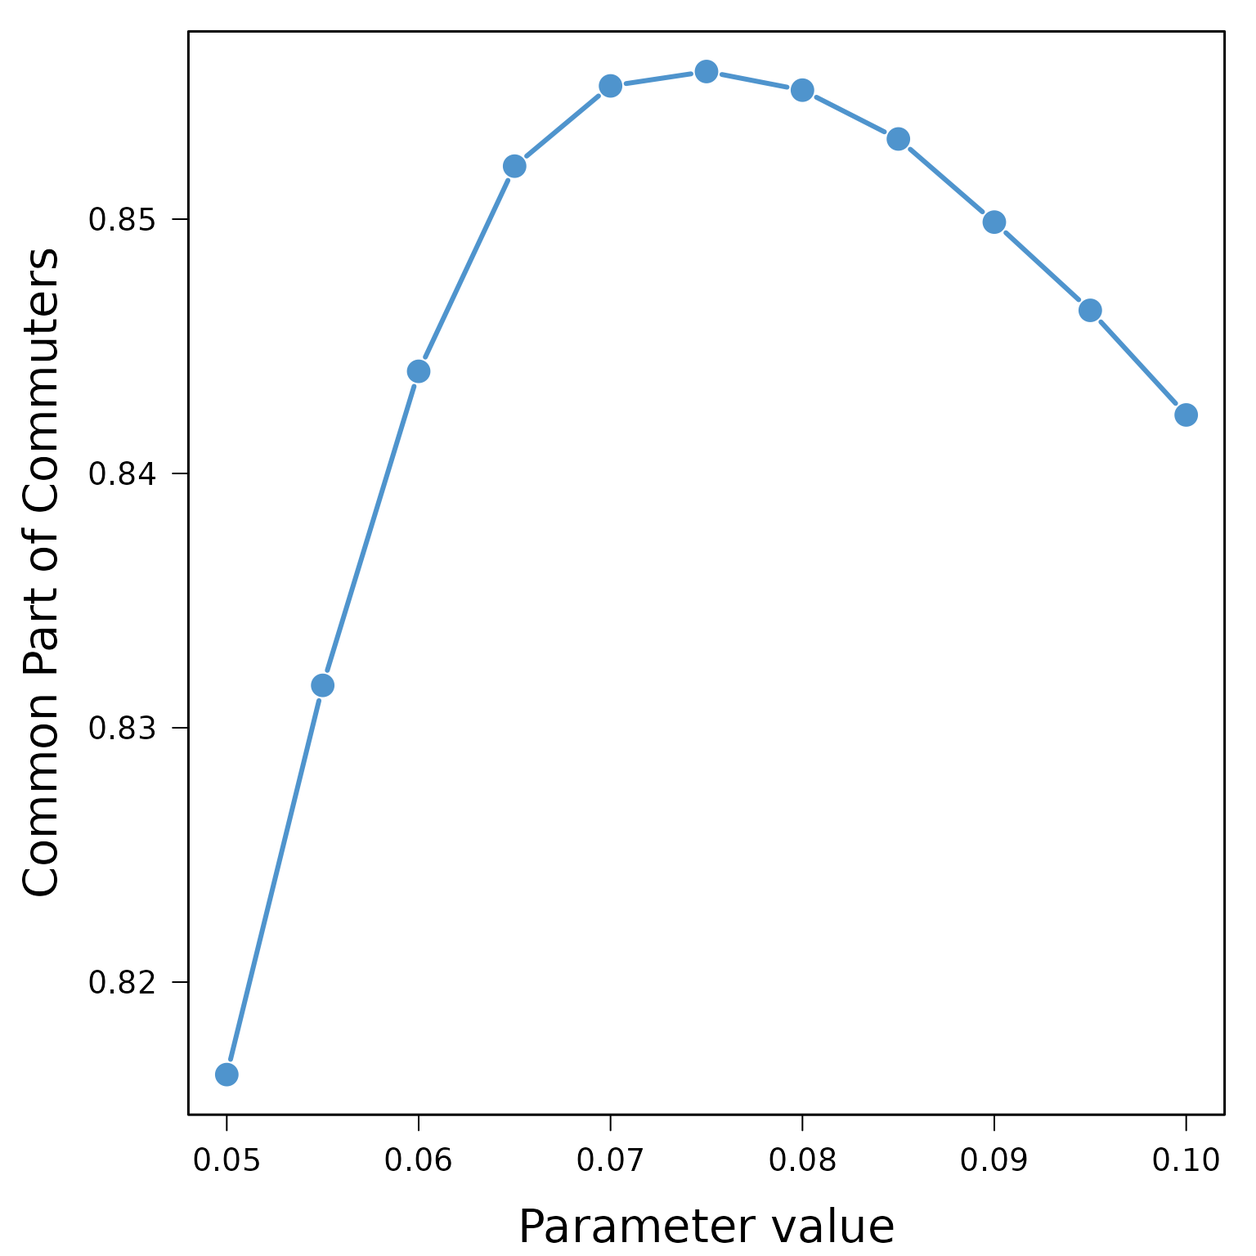
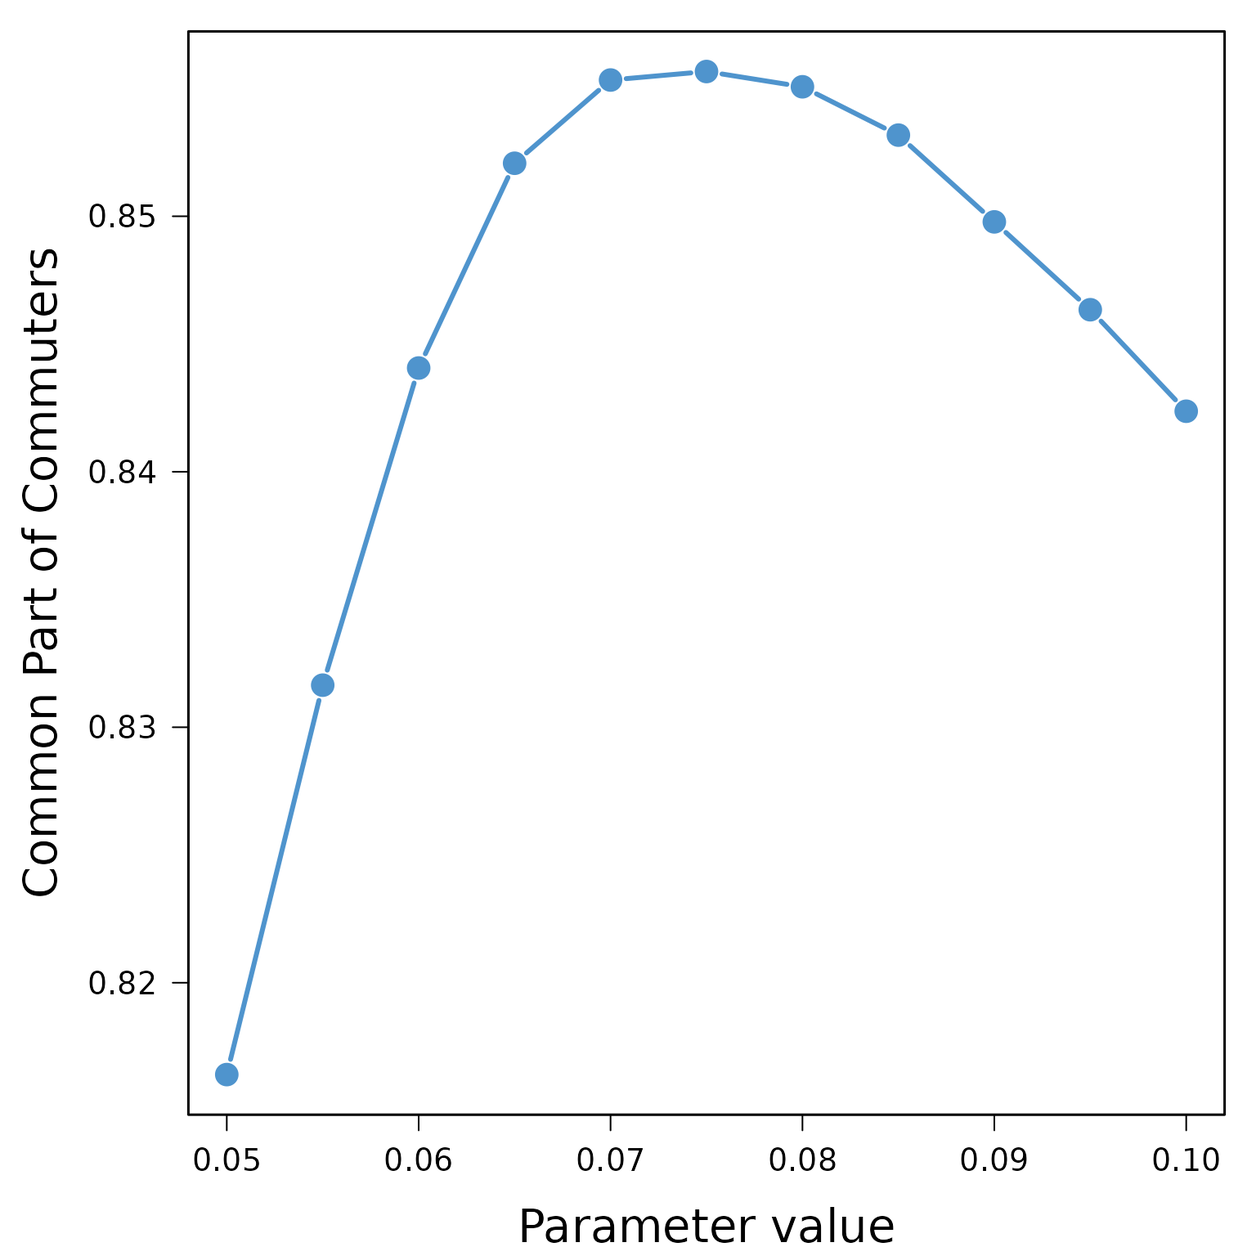
Built site for TDLM: 0.1.0@2da2231

diff --git a/articles/TDLM.html b/articles/TDLM.html
@@ -506,11 +506,11 @@ contain a table <code>info</code> summarizing the simulation run.</p>
 <span><span class="co">##  $ info         :'data.frame':   5 obs. of  2 variables:</span></span>
 <span><span class="co">##   ..$ Argument: chr [1:5] "Law" "Model" "#Replications" "#Parameters" ...</span></span>
 <span><span class="co">##   ..$ Value   : chr [1:5] "NGravExp" "DCM" "3" "1" ...</span></span>
-<span><span class="co">##  $ replication_1: num [1:105, 1:105] 0 23 4 0 2 16 4 103 6 6 ...</span></span>
+<span><span class="co">##  $ replication_1: num [1:105, 1:105] 0 23 4 0 2 15 4 103 5 6 ...</span></span>
 <span><span class="co">##   ..- attr(*, "dimnames")=List of 2</span></span>
-<span><span class="co">##  $ replication_2: num [1:105, 1:105] 0 23 5 0 2 15 4 103 5 6 ...</span></span>
+<span><span class="co">##  $ replication_2: num [1:105, 1:105] 0 23 4 1 2 15 4 105 5 6 ...</span></span>
 <span><span class="co">##   ..- attr(*, "dimnames")=List of 2</span></span>
-<span><span class="co">##  $ replication_3: num [1:105, 1:105] 0 24 4 0 2 17 4 105 5 6 ...</span></span>
+<span><span class="co">##  $ replication_3: num [1:105, 1:105] 0 23 4 0 2 15 4 104 5 7 ...</span></span>
 <span><span class="co">##   ..- attr(*, "dimnames")=List of 2</span></span>
 <span><span class="co">##  $ proba        : num [1:105, 1:105] 0 0.0000431 0.0000216 0.0000039 0.0000181 ...</span></span>
 <span><span class="co">##   ..- attr(*, "dimnames")=List of 2</span></span>
@@ -553,20 +553,20 @@ each parameter value).</p>
 <span><span class="co">##   ..$ Argument: chr [1:6] "Law" "Model" "#Replications" "#Parameters" ...</span></span>
 <span><span class="co">##   ..$ Value   : chr [1:6] "NGravExp" "DCM" "3" "2" ...</span></span>
 <span><span class="co">##  $ parameter_1:List of 4</span></span>
-<span><span class="co">##   ..$ replication_1: num [1:105, 1:105] 0 23 4 1 2 15 4 101 5 7 ...</span></span>
+<span><span class="co">##   ..$ replication_1: num [1:105, 1:105] 0 23 4 0 2 15 4 104 5 8 ...</span></span>
 <span><span class="co">##   .. ..- attr(*, "dimnames")=List of 2</span></span>
-<span><span class="co">##   ..$ replication_2: num [1:105, 1:105] 0 23 4 0 2 15 4 101 5 6 ...</span></span>
+<span><span class="co">##   ..$ replication_2: num [1:105, 1:105] 0 23 4 0 2 15 4 102 5 6 ...</span></span>
 <span><span class="co">##   .. ..- attr(*, "dimnames")=List of 2</span></span>
-<span><span class="co">##   ..$ replication_3: num [1:105, 1:105] 0 24 4 0 2 15 4 103 5 6 ...</span></span>
+<span><span class="co">##   ..$ replication_3: num [1:105, 1:105] 0 23 4 0 2 16 4 105 5 6 ...</span></span>
 <span><span class="co">##   .. ..- attr(*, "dimnames")=List of 2</span></span>
 <span><span class="co">##   ..$ proba        : num [1:105, 1:105] 0 0.0000431 0.0000216 0.0000039 0.0000181 ...</span></span>
 <span><span class="co">##   .. ..- attr(*, "dimnames")=List of 2</span></span>
 <span><span class="co">##  $ parameter_2:List of 4</span></span>
-<span><span class="co">##   ..$ replication_1: num [1:105, 1:105] 0 55 2 0 0 39 1 76 5 7 ...</span></span>
+<span><span class="co">##   ..$ replication_1: num [1:105, 1:105] 0 54 2 0 0 39 1 78 5 7 ...</span></span>
 <span><span class="co">##   .. ..- attr(*, "dimnames")=List of 2</span></span>
-<span><span class="co">##   ..$ replication_2: num [1:105, 1:105] 0 54 2 0 0 39 1 76 5 7 ...</span></span>
+<span><span class="co">##   ..$ replication_2: num [1:105, 1:105] 0 53 2 0 0 39 1 77 5 8 ...</span></span>
 <span><span class="co">##   .. ..- attr(*, "dimnames")=List of 2</span></span>
-<span><span class="co">##   ..$ replication_3: num [1:105, 1:105] 0 54 2 0 0 39 1 80 5 7 ...</span></span>
+<span><span class="co">##   ..$ replication_3: num [1:105, 1:105] 0 53 2 0 0 39 1 76 5 7 ...</span></span>
 <span><span class="co">##   .. ..- attr(*, "dimnames")=List of 2</span></span>
 <span><span class="co">##   ..$ proba        : num [1:105, 1:105] 0 0.00008134 0.00000817 0.00000071 0.00000316 ...</span></span>
 <span><span class="co">##   .. ..- attr(*, "dimnames")=List of 2</span></span>
@@ -604,15 +604,15 @@ case) will be a matrix of positive real numbers.</p>
 <div class="sourceCode" id="cb37"><pre class="downlit sourceCode r">
 <code class="sourceCode R"><span><span class="va">res</span><span class="op">$</span><span class="va">replication_1</span><span class="op">[</span><span class="fl">1</span><span class="op">:</span><span class="fl">10</span>,<span class="fl">1</span><span class="op">:</span><span class="fl">10</span><span class="op">]</span></span></code></pre></div>
 <pre><code><span><span class="co">##       [,1] [,2] [,3] [,4] [,5] [,6] [,7] [,8] [,9] [,10]</span></span>
-<span><span class="co">##  [1,]    0   32    0    0    0  120    0    1    0     0</span></span>
-<span><span class="co">##  [2,]  567    0    0    0    0   22    0    0    0     0</span></span>
+<span><span class="co">##  [1,]    0   32    0    0    0  122    0    1    0     0</span></span>
+<span><span class="co">##  [2,]  571    0    0    0    0   22    0    0    0     0</span></span>
 <span><span class="co">##  [3,]    0    0    0    0    0    0  199    0    0     0</span></span>
 <span><span class="co">##  [4,]    0    0    0    0    0    0    0    0    0     0</span></span>
 <span><span class="co">##  [5,]    0    0    0    1    0    0    0    3    0     0</span></span>
 <span><span class="co">##  [6,]   17    2    0    0    0    0    0    0    0     0</span></span>
-<span><span class="co">##  [7,]    0    0  204    0    0    0    0    0    0     0</span></span>
+<span><span class="co">##  [7,]    0    0  201    0    0    0    0    0    0     0</span></span>
 <span><span class="co">##  [8,]    4    1    1    1   10    5    1    0    0     1</span></span>
-<span><span class="co">##  [9,]    0    0    0    0    0    0    0   40    0     0</span></span>
+<span><span class="co">##  [9,]    0    0    0    0    0    0    0   39    0     0</span></span>
 <span><span class="co">## [10,]    0    0    0    0    0    0    0   13    0     0</span></span></code></pre>
 <div class="sourceCode" id="cb39"><pre class="downlit sourceCode r">
 <code class="sourceCode R"><span><span class="va">res</span> <span class="op">&lt;-</span> <span class="fu"><a href="../reference/run_law_model.html">run_law_model</a></span><span class="op">(</span>law <span class="op">=</span> <span class="st">"Rad"</span>, </span>
@@ -715,73 +715,73 @@ goodness-of-fit measure for a wide range of parameter values.</p>
 <span></span>
 <span><span class="fu"><a href="https://rdrr.io/r/base/print.html" class="external-link">print</a></span><span class="op">(</span><span class="va">calib</span><span class="op">)</span></span></code></pre></div>
 <pre><code><span><span class="co">##       Parameter Parameter_value    Simulation       CPC     NRMSE         KL</span></span>
-<span><span class="co">## 1   parameter_1            0.05 replication_1 0.8162987 10.529619 0.12948493</span></span>
-<span><span class="co">## 2   parameter_1            0.05 replication_2 0.8162887 10.529362 0.12960640</span></span>
-<span><span class="co">## 3   parameter_1            0.05 replication_3 0.8165034 10.517058 0.12942057</span></span>
-<span><span class="co">## 4   parameter_2           0.055 replication_1 0.8316870  9.410129 0.11319133</span></span>
-<span><span class="co">## 5   parameter_2           0.055 replication_2 0.8316920  9.403432 0.11323512</span></span>
-<span><span class="co">## 6   parameter_2           0.055 replication_3 0.8316221  9.417306 0.11339428</span></span>
-<span><span class="co">## 7   parameter_3            0.06 replication_1 0.8440256  8.644802 0.09858013</span></span>
-<span><span class="co">## 8   parameter_3            0.06 replication_2 0.8440206  8.638531 0.09803160</span></span>
-<span><span class="co">## 9   parameter_3            0.06 replication_3 0.8440007  8.642577 0.09829001</span></span>
-<span><span class="co">## 10  parameter_4           0.065 replication_1 0.8520717  8.176929 0.08794192</span></span>
-<span><span class="co">## 11  parameter_4           0.065 replication_2 0.8521266  8.169177 0.08789399</span></span>
-<span><span class="co">## 12  parameter_4           0.065 replication_3 0.8520517  8.171571 0.08792502</span></span>
-<span><span class="co">## 13  parameter_5            0.07 replication_1 0.8552661  7.965454 0.08007311</span></span>
-<span><span class="co">## 14  parameter_5            0.07 replication_2 0.8552362  7.961158 0.08021417</span></span>
-<span><span class="co">## 15  parameter_5            0.07 replication_3 0.8552112  7.972721 0.08025322</span></span>
-<span><span class="co">## 16  parameter_6           0.075 replication_1 0.8557902  7.944715 0.07908148</span></span>
-<span><span class="co">## 17  parameter_6           0.075 replication_2 0.8557203  7.941551 0.07922259</span></span>
-<span><span class="co">## 18  parameter_6           0.075 replication_3 0.8559000  7.943241 0.07909025</span></span>
-<span><span class="co">## 19  parameter_7            0.08 replication_1 0.8550814  8.113698 0.07459387</span></span>
-<span><span class="co">## 20  parameter_7            0.08 replication_2 0.8551513  8.108600 0.07900007</span></span>
-<span><span class="co">## 21  parameter_7            0.08 replication_3 0.8549816  8.120249 0.07445038</span></span>
-<span><span class="co">## 22  parameter_8           0.085 replication_1 0.8531797  8.371970 0.07373883</span></span>
-<span><span class="co">## 23  parameter_8           0.085 replication_2 0.8530799  8.380571 0.07372626</span></span>
-<span><span class="co">## 24  parameter_8           0.085 replication_3 0.8531947  8.378287 0.07371815</span></span>
-<span><span class="co">## 25  parameter_9            0.09 replication_1 0.8499453  8.710399 0.07525838</span></span>
-<span><span class="co">## 26  parameter_9            0.09 replication_2 0.8499054  8.701195 0.07533784</span></span>
-<span><span class="co">## 27  parameter_9            0.09 replication_3 0.8497956  8.713282 0.07521575</span></span>
-<span><span class="co">## 28 parameter_10           0.095 replication_1 0.8464165  9.092052 0.08101716</span></span>
-<span><span class="co">## 29 parameter_10           0.095 replication_2 0.8464115  9.083562 0.08091549</span></span>
-<span><span class="co">## 30 parameter_10           0.095 replication_3 0.8464115  9.081993 0.08081967</span></span>
-<span><span class="co">## 31 parameter_11             0.1 replication_1 0.8422936  9.489928 0.08337382</span></span>
-<span><span class="co">## 32 parameter_11             0.1 replication_2 0.8423485  9.494399 0.08350422</span></span>
-<span><span class="co">## 33 parameter_11             0.1 replication_3 0.8422587  9.494559 0.08337782</span></span>
+<span><span class="co">## 1   parameter_1            0.05 replication_1 0.8164135 10.524151 0.12949910</span></span>
+<span><span class="co">## 2   parameter_1            0.05 replication_2 0.8164185 10.527185 0.12966565</span></span>
+<span><span class="co">## 3   parameter_1            0.05 replication_3 0.8163836 10.516966 0.12947455</span></span>
+<span><span class="co">## 4   parameter_2           0.055 replication_1 0.8315273  9.425764 0.11336950</span></span>
+<span><span class="co">## 5   parameter_2           0.055 replication_2 0.8316621  9.420002 0.11334950</span></span>
+<span><span class="co">## 6   parameter_2           0.055 replication_3 0.8317519  9.399743 0.11315027</span></span>
+<span><span class="co">## 7   parameter_3            0.06 replication_1 0.8441604  8.638863 0.09793344</span></span>
+<span><span class="co">## 8   parameter_3            0.06 replication_2 0.8440456  8.643352 0.09822924</span></span>
+<span><span class="co">## 9   parameter_3            0.06 replication_3 0.8439757  8.643521 0.09826929</span></span>
+<span><span class="co">## 10  parameter_4           0.065 replication_1 0.8521216  8.171056 0.08794039</span></span>
+<span><span class="co">## 11  parameter_4           0.065 replication_2 0.8520217  8.171384 0.08768137</span></span>
+<span><span class="co">## 12  parameter_4           0.065 replication_3 0.8520816  8.167739 0.08788543</span></span>
+<span><span class="co">## 13  parameter_5            0.07 replication_1 0.8552661  7.961458 0.08017959</span></span>
+<span><span class="co">## 14  parameter_5            0.07 replication_2 0.8553260  7.948951 0.08017596</span></span>
+<span><span class="co">## 15  parameter_5            0.07 replication_3 0.8554059  7.956282 0.08021037</span></span>
+<span><span class="co">## 16  parameter_6           0.075 replication_1 0.8557802  7.948029 0.07934174</span></span>
+<span><span class="co">## 17  parameter_6           0.075 replication_2 0.8557403  7.947921 0.07919678</span></span>
+<span><span class="co">## 18  parameter_6           0.075 replication_3 0.8554757  7.977773 0.07925845</span></span>
+<span><span class="co">## 19  parameter_7            0.08 replication_1 0.8550615  8.104646 0.07424040</span></span>
+<span><span class="co">## 20  parameter_7            0.08 replication_2 0.8550215  8.122180 0.07428158</span></span>
+<span><span class="co">## 21  parameter_7            0.08 replication_3 0.8551214  8.107315 0.07426391</span></span>
+<span><span class="co">## 22  parameter_8           0.085 replication_1 0.8532296  8.372686 0.07359353</span></span>
+<span><span class="co">## 23  parameter_8           0.085 replication_2 0.8531797  8.381286 0.07369446</span></span>
+<span><span class="co">## 24  parameter_8           0.085 replication_3 0.8531198  8.376033 0.07439135</span></span>
+<span><span class="co">## 25  parameter_9            0.09 replication_1 0.8498056  8.707191 0.07540731</span></span>
+<span><span class="co">## 26  parameter_9            0.09 replication_2 0.8498106  8.721232 0.07521628</span></span>
+<span><span class="co">## 27  parameter_9            0.09 replication_3 0.8497257  8.726455 0.07549420</span></span>
+<span><span class="co">## 28 parameter_10           0.095 replication_1 0.8463765  9.090399 0.08091831</span></span>
+<span><span class="co">## 29 parameter_10           0.095 replication_2 0.8463616  9.099636 0.08091574</span></span>
+<span><span class="co">## 30 parameter_10           0.095 replication_3 0.8462867  9.083646 0.08095228</span></span>
+<span><span class="co">## 31 parameter_11             0.1 replication_1 0.8423835  9.488589 0.08370720</span></span>
+<span><span class="co">## 32 parameter_11             0.1 replication_2 0.8423485  9.487234 0.08340066</span></span>
+<span><span class="co">## 33 parameter_11             0.1 replication_3 0.8423735  9.492525 0.08338867</span></span>
 <span><span class="co">##          CPL     CPC_d    KS_stat   KS_pval</span></span>
-<span><span class="co">## 1  0.6595850 0.8953566 0.07301159 0.9998558</span></span>
-<span><span class="co">## 2  0.6592593 0.8953516 0.07300161 0.9998559</span></span>
-<span><span class="co">## 3  0.6592593 0.8953965 0.07299662 0.9998564</span></span>
-<span><span class="co">## 4  0.6709979 0.9156963 0.04988671 1.0000000</span></span>
-<span><span class="co">## 5  0.6709979 0.9155665 0.04991666 1.0000000</span></span>
-<span><span class="co">## 6  0.6706494 0.9156314 0.04992165 1.0000000</span></span>
-<span><span class="co">## 7  0.6729730 0.9318283 0.03026076 1.0000000</span></span>
-<span><span class="co">## 8  0.6718877 0.9318033 0.03025078 1.0000000</span></span>
-<span><span class="co">## 9  0.6724278 0.9318433 0.03025577 1.0000000</span></span>
-<span><span class="co">## 10 0.6724866 0.9430239 0.03377467 1.0000000</span></span>
-<span><span class="co">## 11 0.6726761 0.9430388 0.03377966 1.0000000</span></span>
-<span><span class="co">## 12 0.6736131 0.9431087 0.03376967 1.0000000</span></span>
-<span><span class="co">## 13 0.6748395 0.9495525 0.03745827 1.0000000</span></span>
-<span><span class="co">## 14 0.6740654 0.9495076 0.03747325 1.0000000</span></span>
-<span><span class="co">## 15 0.6742623 0.9493429 0.03741834 1.0000000</span></span>
-<span><span class="co">## 16 0.6716867 0.9482148 0.04355769 1.0000000</span></span>
-<span><span class="co">## 17 0.6720916 0.9481999 0.04355270 1.0000000</span></span>
-<span><span class="co">## 18 0.6720867 0.9481500 0.04360261 1.0000000</span></span>
-<span><span class="co">## 19 0.6635688 0.9407927 0.04953233 1.0000000</span></span>
-<span><span class="co">## 20 0.6643963 0.9408376 0.04946245 1.0000000</span></span>
-<span><span class="co">## 21 0.6627439 0.9408826 0.04948241 1.0000000</span></span>
-<span><span class="co">## 22 0.6516067 0.9330512 0.05646530 1.0000000</span></span>
-<span><span class="co">## 23 0.6511776 0.9330062 0.05646031 1.0000000</span></span>
-<span><span class="co">## 24 0.6513849 0.9328864 0.05654516 1.0000000</span></span>
-<span><span class="co">## 25 0.6408588 0.9257538 0.06239002 0.9999993</span></span>
-<span><span class="co">## 26 0.6404677 0.9257838 0.06240499 0.9999993</span></span>
-<span><span class="co">## 27 0.6406504 0.9257688 0.06243494 0.9999993</span></span>
-<span><span class="co">## 28 0.6350679 0.9187160 0.06730150 0.9999940</span></span>
-<span><span class="co">## 29 0.6350679 0.9187560 0.06726157 0.9999941</span></span>
-<span><span class="co">## 30 0.6350679 0.9187160 0.06726157 0.9999942</span></span>
-<span><span class="co">## 31 0.6233503 0.9120775 0.07273707 0.9999606</span></span>
-<span><span class="co">## 32 0.6235613 0.9120576 0.07277201 0.9999602</span></span>
-<span><span class="co">## 33 0.6235613 0.9120077 0.07279696 0.9999600</span></span></code></pre>
+<span><span class="co">## 1  0.6594221 0.8953566 0.07299162 0.9998563</span></span>
+<span><span class="co">## 2  0.6595902 0.8952467 0.07301658 0.9998551</span></span>
+<span><span class="co">## 3  0.6600791 0.8953715 0.07307149 0.9998534</span></span>
+<span><span class="co">## 4  0.6715177 0.9155715 0.04996158 1.0000000</span></span>
+<span><span class="co">## 5  0.6713469 0.9155316 0.04996657 1.0000000</span></span>
+<span><span class="co">## 6  0.6708236 0.9155465 0.05001150 1.0000000</span></span>
+<span><span class="co">## 7  0.6720692 0.9319730 0.03025078 1.0000000</span></span>
+<span><span class="co">## 8  0.6722507 0.9317983 0.03024080 1.0000000</span></span>
+<span><span class="co">## 9  0.6726142 0.9316686 0.03028073 1.0000000</span></span>
+<span><span class="co">## 10 0.6724866 0.9430388 0.03378465 1.0000000</span></span>
+<span><span class="co">## 11 0.6722973 0.9429590 0.03374971 1.0000000</span></span>
+<span><span class="co">## 12 0.6728604 0.9431237 0.03377467 1.0000000</span></span>
+<span><span class="co">## 13 0.6742623 0.9496773 0.03739838 1.0000000</span></span>
+<span><span class="co">## 14 0.6742623 0.9495925 0.03739838 1.0000000</span></span>
+<span><span class="co">## 15 0.6744526 0.9495525 0.03745328 1.0000000</span></span>
+<span><span class="co">## 16 0.6720818 0.9481500 0.04349780 1.0000000</span></span>
+<span><span class="co">## 17 0.6718891 0.9481300 0.04356768 1.0000000</span></span>
+<span><span class="co">## 18 0.6716867 0.9479204 0.04354771 1.0000000</span></span>
+<span><span class="co">## 19 0.6631546 0.9408726 0.04950737 1.0000000</span></span>
+<span><span class="co">## 20 0.6631546 0.9408726 0.04946245 1.0000000</span></span>
+<span><span class="co">## 21 0.6631546 0.9408077 0.04953233 1.0000000</span></span>
+<span><span class="co">## 22 0.6518141 0.9330012 0.05645532 1.0000000</span></span>
+<span><span class="co">## 23 0.6513849 0.9329114 0.05649525 1.0000000</span></span>
+<span><span class="co">## 24 0.6524642 0.9329513 0.05653019 1.0000000</span></span>
+<span><span class="co">## 25 0.6408588 0.9257888 0.06238004 0.9999993</span></span>
+<span><span class="co">## 26 0.6404421 0.9258037 0.06235508 0.9999993</span></span>
+<span><span class="co">## 27 0.6413008 0.9256889 0.06240000 0.9999993</span></span>
+<span><span class="co">## 28 0.6350679 0.9187210 0.06728153 0.9999941</span></span>
+<span><span class="co">## 29 0.6355202 0.9186162 0.06732146 0.9999940</span></span>
+<span><span class="co">## 30 0.6348575 0.9186561 0.06730150 0.9999940</span></span>
+<span><span class="co">## 31 0.6242383 0.9121025 0.07268715 0.9999613</span></span>
+<span><span class="co">## 32 0.6237724 0.9121524 0.07271211 0.9999611</span></span>
+<span><span class="co">## 33 0.6237724 0.9121574 0.07264223 0.9999618</span></span></code></pre>
 <p>All the necessary information is stored in the object calib, most of
 the goodness-of-fit measures agree on a parameter value of 0.075 in that
 case with an associated average Common Part of Commuter equal to

diff --git a/index.html b/index.html
@@ -5,7 +5,7 @@
 <meta charset="utf-8">
 <meta http-equiv="X-UA-Compatible" content="IE=edge">
 <meta name="viewport" content="width=device-width, initial-scale=1, shrink-to-fit=no">
-<meta name="description" content="An R package to compare trip distribution laws and models.">
+<meta name="description" content="The main purpose of this package is to propose a rigorous framework to fairly compare trip distribution laws and models as described in Lenormand et al. (2016) &lt;doi:10.1016/j.jtrangeo.2015.12.008&gt;.">
 <title>Systematic Comparison of Trip Distribution Laws and Models • TDLM</title>
 <!-- favicons --><link rel="icon" type="image/png" sizes="16x16" href="favicon-16x16.png">
 <link rel="icon" type="image/png" sizes="32x32" href="favicon-32x32.png">
@@ -18,7 +18,7 @@
 <script src="deps/bootstrap-5.2.2/bootstrap.bundle.min.js"></script><!-- Font Awesome icons --><link rel="stylesheet" href="https://cdnjs.cloudflare.com/ajax/libs/font-awesome/5.12.1/css/all.min.css" integrity="sha256-mmgLkCYLUQbXn0B1SRqzHar6dCnv9oZFPEC1g1cwlkk=" crossorigin="anonymous">
 <link rel="stylesheet" href="https://cdnjs.cloudflare.com/ajax/libs/font-awesome/5.12.1/css/v4-shims.min.css" integrity="sha256-wZjR52fzng1pJHwx4aV2AO3yyTOXrcDW7jBpJtTwVxw=" crossorigin="anonymous">
 <!-- bootstrap-toc --><script src="https://cdn.jsdelivr.net/gh/afeld/bootstrap-toc@v1.0.1/dist/bootstrap-toc.min.js" integrity="sha256-4veVQbu7//Lk5TSmc7YV48MxtMy98e26cf5MrgZYnwo=" crossorigin="anonymous"></script><!-- headroom.js --><script src="https://cdnjs.cloudflare.com/ajax/libs/headroom/0.11.0/headroom.min.js" integrity="sha256-AsUX4SJE1+yuDu5+mAVzJbuYNPHj/WroHuZ8Ir/CkE0=" crossorigin="anonymous"></script><script src="https://cdnjs.cloudflare.com/ajax/libs/headroom/0.11.0/jQuery.headroom.min.js" integrity="sha256-ZX/yNShbjqsohH1k95liqY9Gd8uOiE1S4vZc+9KQ1K4=" crossorigin="anonymous"></script><!-- clipboard.js --><script src="https://cdnjs.cloudflare.com/ajax/libs/clipboard.js/2.0.6/clipboard.min.js" integrity="sha256-inc5kl9MA1hkeYUt+EC3BhlIgyp/2jDIyBLS6k3UxPI=" crossorigin="anonymous"></script><!-- search --><script src="https://cdnjs.cloudflare.com/ajax/libs/fuse.js/6.4.6/fuse.js" integrity="sha512-zv6Ywkjyktsohkbp9bb45V6tEMoWhzFzXis+LrMehmJZZSys19Yxf1dopHx7WzIKxr5tK2dVcYmaCk2uqdjF4A==" crossorigin="anonymous"></script><script src="https://cdnjs.cloudflare.com/ajax/libs/autocomplete.js/0.38.0/autocomplete.jquery.min.js" integrity="sha512-GU9ayf+66Xx2TmpxqJpliWbT5PiGYxpaG8rfnBEk1LL8l1KGkRShhngwdXK1UgqhAzWpZHSiYPc09/NwDQIGyg==" crossorigin="anonymous"></script><script src="https://cdnjs.cloudflare.com/ajax/libs/mark.js/8.11.1/mark.min.js" integrity="sha512-5CYOlHXGh6QpOFA/TeTylKLWfB3ftPsde7AnmhuitiTX4K5SqCLBeKro6sPS8ilsz1Q4NRx3v8Ko2IBiszzdww==" crossorigin="anonymous"></script><!-- pkgdown --><script src="pkgdown.js"></script><meta property="og:title" content="Systematic Comparison of Trip Distribution Laws and Models">
-<meta property="og:description" content="An R package to compare trip distribution laws and models.">
+<meta property="og:description" content="The main purpose of this package is to propose a rigorous framework to fairly compare trip distribution laws and models as described in Lenormand et al. (2016) &lt;doi:10.1016/j.jtrangeo.2015.12.008&gt;.">
 <meta property="og:image" content="https://epivec.github.io/TDLM/logo.png">
 <!-- mathjax --><script src="https://cdnjs.cloudflare.com/ajax/libs/mathjax/2.7.5/MathJax.js" integrity="sha256-nvJJv9wWKEm88qvoQl9ekL2J+k/RWIsaSScxxlsrv8k=" crossorigin="anonymous"></script><script src="https://cdnjs.cloudflare.com/ajax/libs/mathjax/2.7.5/config/TeX-AMS-MML_HTMLorMML.js" integrity="sha256-84DKXVJXs0/F8OTMzX4UR909+jtl4G7SPypPavF+GfA=" crossorigin="anonymous"></script><!--[if lt IE 9]>
 <script src="https://oss.maxcdn.com/html5shiv/3.7.3/html5shiv.min.js"></script>
@@ -118,9 +118,7 @@
 <div class="license">
 <h2 data-toc-skip>License</h2>
 <ul class="list-unstyled">
-<li>
-<a href="https://www.r-project.org/Licenses/GPL-3" class="external-link">GPL-3</a> + file <a href="LICENSE-text.html">LICENSE</a>
-</li>
+<li><a href="https://www.r-project.org/Licenses/GPL-3" class="external-link">GPL-3</a></li>
 </ul>
 </div>
 
